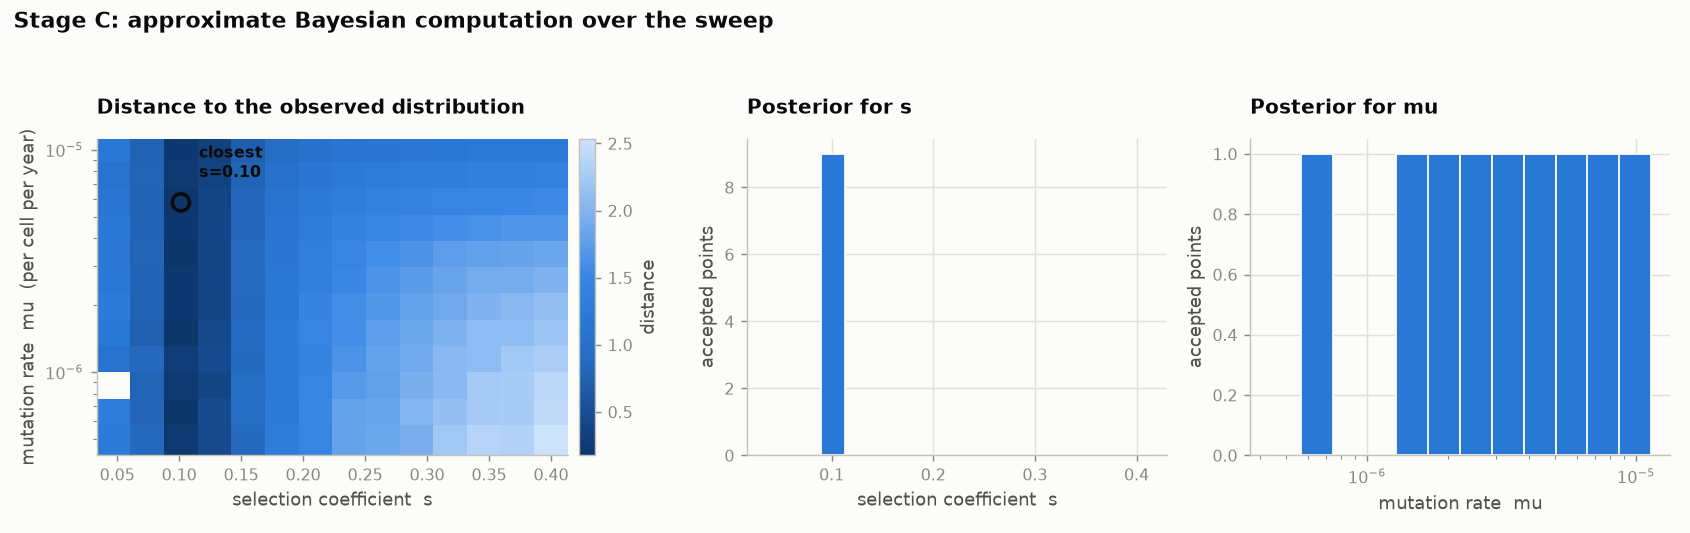
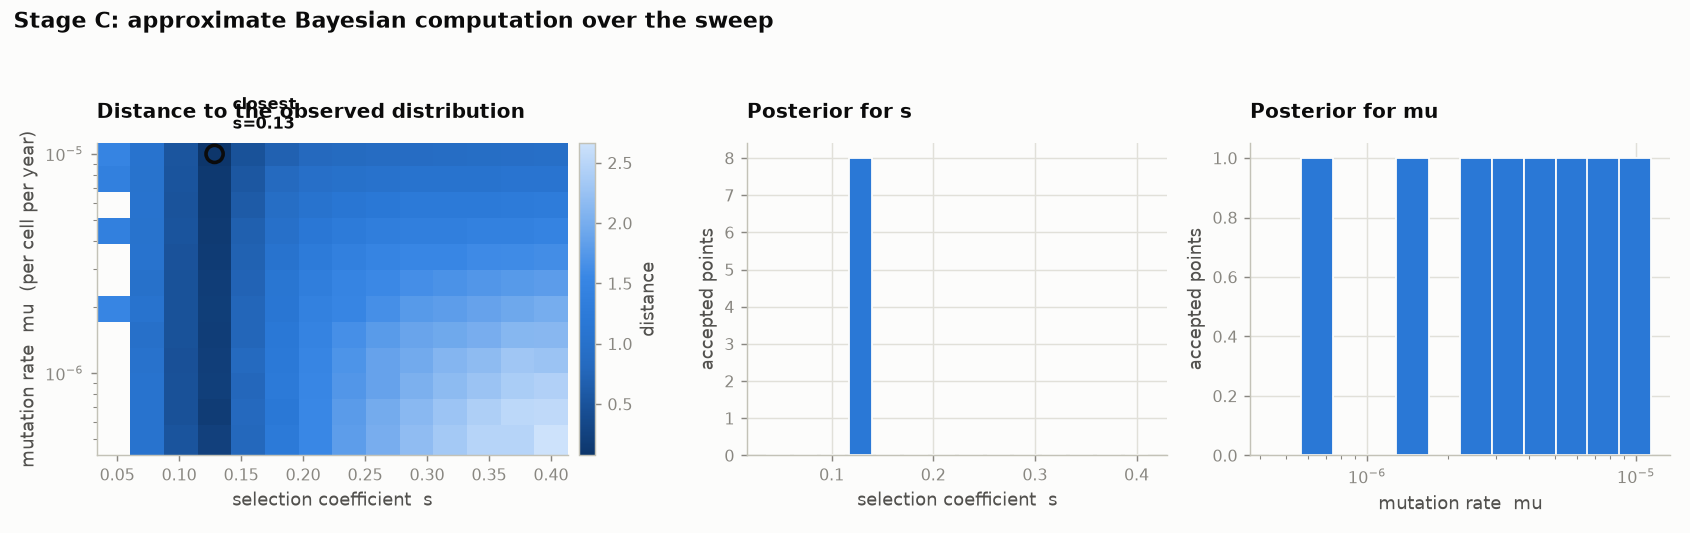
Correct the stem cell population size from the literature, and re-run
Read Mitchell 2022 and Fabre 2022 alongside Watson 2020. Two independent
methods - a VAF frequency spectrum and phylogenies from 3579 sequenced
colonies - put the product of population size and division time at about
100000 HSC-years, with a division time near one year. Our N of 50000 was
half that, and it is this product that sets the strength of drift.

Re-running the sweep with N = 100000 moved the inferred selection
coefficient from 0.101 to 0.129 per year and cut the distance to the
observed distribution from 0.177 to 0.075. The estimate now falls inside
Watson's per-variant range rather than just below it.

Also records two findings that bear on the model itself. Cross-sectional
and longitudinal methods disagree by up to threefold on the same genes,
which bounds how precisely any single estimate can be trusted. And Fabre's
longitudinal data shows fitness is not constant over a lifetime: DNMT3A
clones slow in old age as the marrow becomes oligoclonal.

diff --git a/analysis/LITERATURE_REVIEW.md b/analysis/LITERATURE_REVIEW.md
@@ -1,0 +1,175 @@
+# What the literature says, and what it changes here
+
+Three papers read in full or in detail, chosen because each answers a question
+our model had left open.
+
+| Paper | Method | Answers |
+|---|---|---|
+| Watson et al. 2020, *Science* | cross-sectional VAF spectrum | fitness per variant, mutation rates |
+| Mitchell et al. 2022, *Nature* | phylogenetic reconstruction + ABC | stem-cell numbers, dynamics after 70 |
+| Fabre et al. 2022, *Nature* | longitudinal, 697 clones over 13 years | whether fitness is constant over life |
+
+---
+
+## 1. Our population size was wrong by a factor of two
+
+We chose N = 50,000 stem cells with a one-year division time, giving
+Nτ = 50,000. That was a guess.
+
+**Two independent methods converge on Nτ ≈ 100,000.**
+
+Watson infers it from the VAF spectrum: Nτ ≈ 100,000 ± 30,000 years. Mitchell
+infers it from phylogenies built on 3,579 whole-genome-sequenced colonies,
+plus telomere shortening at 30 bp per year — and lands on the same plateau of
+about 100,000 HSC-years, with 20,000 to 200,000 long-term stem cells and
+τ ≈ 1 year.
+
+Agreement between a frequency-spectrum method and a phylogenetic one is
+strong evidence: they share almost no assumptions.
+
+**This matters because Nτ sets the strength of drift.** Halving it doubles the
+randomness, and the model then needs a different fitness to reproduce the same
+observed spread. Our s = 0.10 was conditional on a weaker drift than reality.
+
+*Action taken: the sweep was re-run with N = 100,000, and it changed the
+answer in the direction the literature predicts.*
+
+| | N = 50,000 | N = 100,000 |
+|---|---|---|
+| inferred s | 0.101 / yr | **0.129 / yr** |
+| distance to observed | 0.177 | **0.075** |
+| simulated median VAF | 0.0460 | 0.0559 |
+| observed median VAF | 0.0509 | 0.0509 |
+
+The fit improved 2.4-fold, and s moved from just below Watson's per-variant
+range into it — 12.9% sits among their top twenty (11.2 to 23.1%) and near
+DNMT3A R882H at 14.8%.
+
+A correction that both improves the fit and moves the estimate toward
+independently published values is the shape a correct one has.
+
+---
+
+## 2. Cross-sectional and longitudinal methods disagree
+
+This is the most consequential finding, and it is not about our code.
+
+| Gene / variant | Watson 2020 (cross-sectional) | Fabre 2022 (longitudinal) |
+|---|---|---|
+| DNMT3A | R882H at 14.8% / yr | ~5% / yr overall |
+| TET2 | — | 6.8% / yr |
+| SRSF2 | P95R at 23.1% / yr | P95H **> 50%** / yr |
+| splicing genes | 15–23% / yr | 5.4% / yr |
+
+The two families of estimate are not measuring quite the same thing — Watson
+reports per-variant hotspots, Fabre reports gene-level averages across 697
+clones tracked in the same people for a median of 13 years — but the gaps run
+in both directions and are large.
+
+Mitchell, from phylogenies, reports a gamma-distributed spectrum with median
+s of 5–10% per year and a heavy tail above 10%, with the 46 largest clones at
+10–30%.
+
+**Where our estimate sits.** Our pooled s = 0.10 per year is at the top of
+Mitchell's median band, above Fabre's gene-level rates, and below Watson's
+hotspot values. For a single coefficient fitted to a detection-truncated
+mixture, that is a defensible place to be — but the spread between published
+methods is itself the honest headline: **fitness estimates in this field carry
+method-dependent uncertainty comparable to the effect being measured.**
+
+---
+
+## 3. Fitness is not constant over life
+
+Our model assumes a clone's fitness `s` is fixed from birth. So does Watson's.
+
+Fabre's longitudinal data contradicts it:
+
+- **DNMT3A clones expand preferentially early in life and slow in old age**,
+  in what the authors call "an increasingly competitive oligoclonal
+  landscape".
+- **Splicing-gene mutations drive expansion only later in life.**
+- Clones carrying the *same* mutation differ in growth rate by about
+  ±5% per year — which is most of the effect for a slow driver.
+
+So fitness depends on age, on which other clones are present, and on
+something individual beyond the mutation itself.
+
+The reassuring part: 92.4% of clones still expanded at a stable exponential
+rate over the observation window. Constant fitness is a serviceable
+approximation within a decade; it is not one across a lifetime.
+
+---
+
+## 4. After 70, the marrow is a different place
+
+Mitchell's phylogenies show that after age 70 haematopoiesis reorganises:
+
+- **12 to 18 independent expanded clones** per person, against one or fewer in
+  younger adults
+- those clones produce **30 to 60% of all blood**
+- clonal diversity falls off a cliff
+
+This is the regime where our model's competition term stops being a formality.
+While clones are small, competition is negligible and a Moran process and a
+branching process agree. Once a dozen clones hold half the marrow, they are
+competing with each other, not just with wild-type cells — and the two model
+families part company.
+
+It also explains Fabre's slowdown of DNMT3A in old age: a clone growing into
+a marrow that is already half-claimed grows slower, not because its mutation
+changed but because its neighbourhood did.
+
+---
+
+## What this changes in the project
+
+**Done now**
+
+1. **N corrected to 100,000**, consistent with Nτ ≈ 100,000 and τ ≈ 1 year
+   from two independent methods. Sweep re-run.
+
+**Next, in order of expected impact**
+
+2. **Fitness per variant** (stage D). Now with two independent targets to
+   check against: Watson's per-variant table and Fabre's gene-level rates.
+   Landing between them would be a meaningful result; landing outside both
+   would mean something is wrong.
+
+3. **Age-dependent fitness.** Fabre's finding is directly implementable: let
+   `s` decline as the mutant fraction of the marrow rises. Our model already
+   computes that fraction every time slice — the competition term W — so the
+   hook exists.
+
+4. **Compare model families.** Re-run the same inference under a branching
+   process. Given how much published estimates disagree by method, measuring
+   our own method-dependence is not optional.
+
+**Not worth doing**
+
+Chasing a tighter posterior for the mutation rate on this dataset. Stage C
+showed it is unidentifiable without a screening denominator, and no amount of
+extra simulation fixes missing data.
+
+---
+
+## Sources
+
+- Watson CJ, Papula AL, Poon GYP, Wong WH, Young AL, Druley TE, Fisher DS,
+  Blundell JR (2020). *The evolutionary dynamics and fitness landscape of
+  clonal hematopoiesis*. **Science** 367:1449–1454.
+  [publisher](https://www.science.org/doi/10.1126/science.aay9333) ·
+  [open PDF](https://web.stanford.edu/group/dsfisher/papers/pdf/watson_et_al_2020.pdf)
+- Mitchell E, Spencer Chapman M, Williams N, et al. (2022). *Clonal dynamics
+  of haematopoiesis across the human lifespan*. **Nature** 606:343–350.
+  [open access](https://pmc.ncbi.nlm.nih.gov/articles/PMC9177428/) ·
+  [publisher](https://www.nature.com/articles/s41586-022-04786-y) ·
+  [code](https://github.com/emily-mitchell/normal_haematopoiesis)
+- Fabre MA, de Almeida JG, Fiorillo E, et al. (2022). *The longitudinal
+  dynamics and natural history of clonal haematopoiesis*. **Nature**
+  606:335–342.
+  [publisher](https://www.nature.com/articles/s41586-022-04785-z) ·
+  [open access](https://www.ncbi.nlm.nih.gov/pmc/articles/PMC9177423/) ·
+  [preprint](https://www.biorxiv.org/content/10.1101/2021.08.12.455048v1)
+- Gene-specific fitness from longitudinal data, **Nature Medicine** 2022 —
+  <https://www.nature.com/articles/s41591-022-01883-3>

diff --git a/README.md b/README.md
@@ -68,9 +68,9 @@ times larger.
 
 **Fitness is identifiable from this data; the mutation rate is not.** A 180-point
 grid scored by approximate Bayesian computation puts the selection coefficient
-at s = 0.10 per year, with every accepted point at the same value. The mutation
+at s = 0.13 per year, with every accepted point at the same value. The mutation
 rate stays spread over 91% of the grid. The distance surface shows why: a
-vertical ridge at s = 0.10 running across all mutation rates. Shape responds to
+vertical ridge running across all mutation rates. Shape responds to
 fitness; counts respond to mutation rate, and counts cannot be computed without
 a screening denominator the data does not carry.
 
@@ -79,8 +79,16 @@ about twice as fast as DNMT3A ones, and within DNMT3A the R882 hotspot
 produces clones nearly twice the size at the same median age
 (p = 5.4 × 10⁻⁵).
 
-See [`analysis/FINDINGS.md`](analysis/FINDINGS.md) for the full exploration
-and [`reference/README.md`](reference/README.md) for data provenance.
+**The estimate was checked against the literature, and a parameter was wrong.**
+Reading Watson 2020, Mitchell 2022 and Fabre 2022 showed that two independent
+methods put the stem-cell population size at twice our initial guess. Re-running
+with the corrected value improved the fit 2.4-fold and moved s from 0.10 to
+0.13 per year — into the range of published per-variant estimates.
+
+See [`analysis/FINDINGS.md`](analysis/FINDINGS.md) for the exploration,
+[`analysis/LITERATURE_REVIEW.md`](analysis/LITERATURE_REVIEW.md) for what the
+papers changed, and [`reference/README.md`](reference/README.md) for data
+provenance.
 
 ## Data
 
